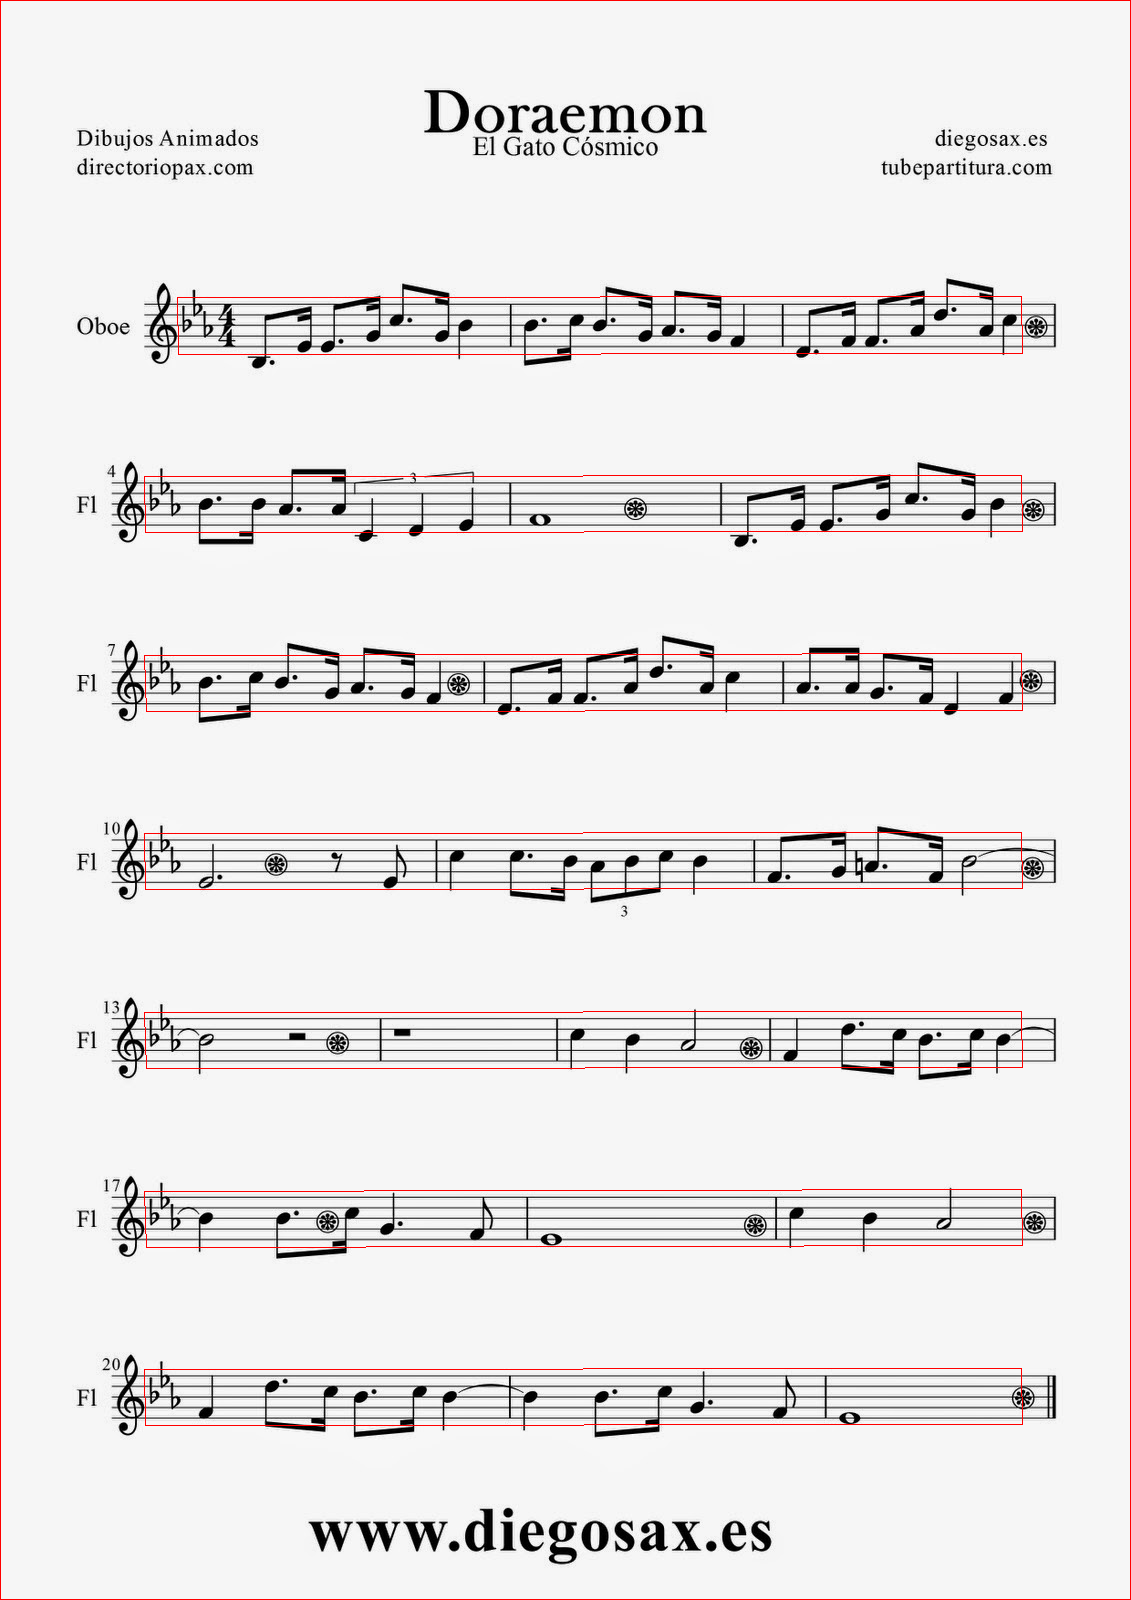
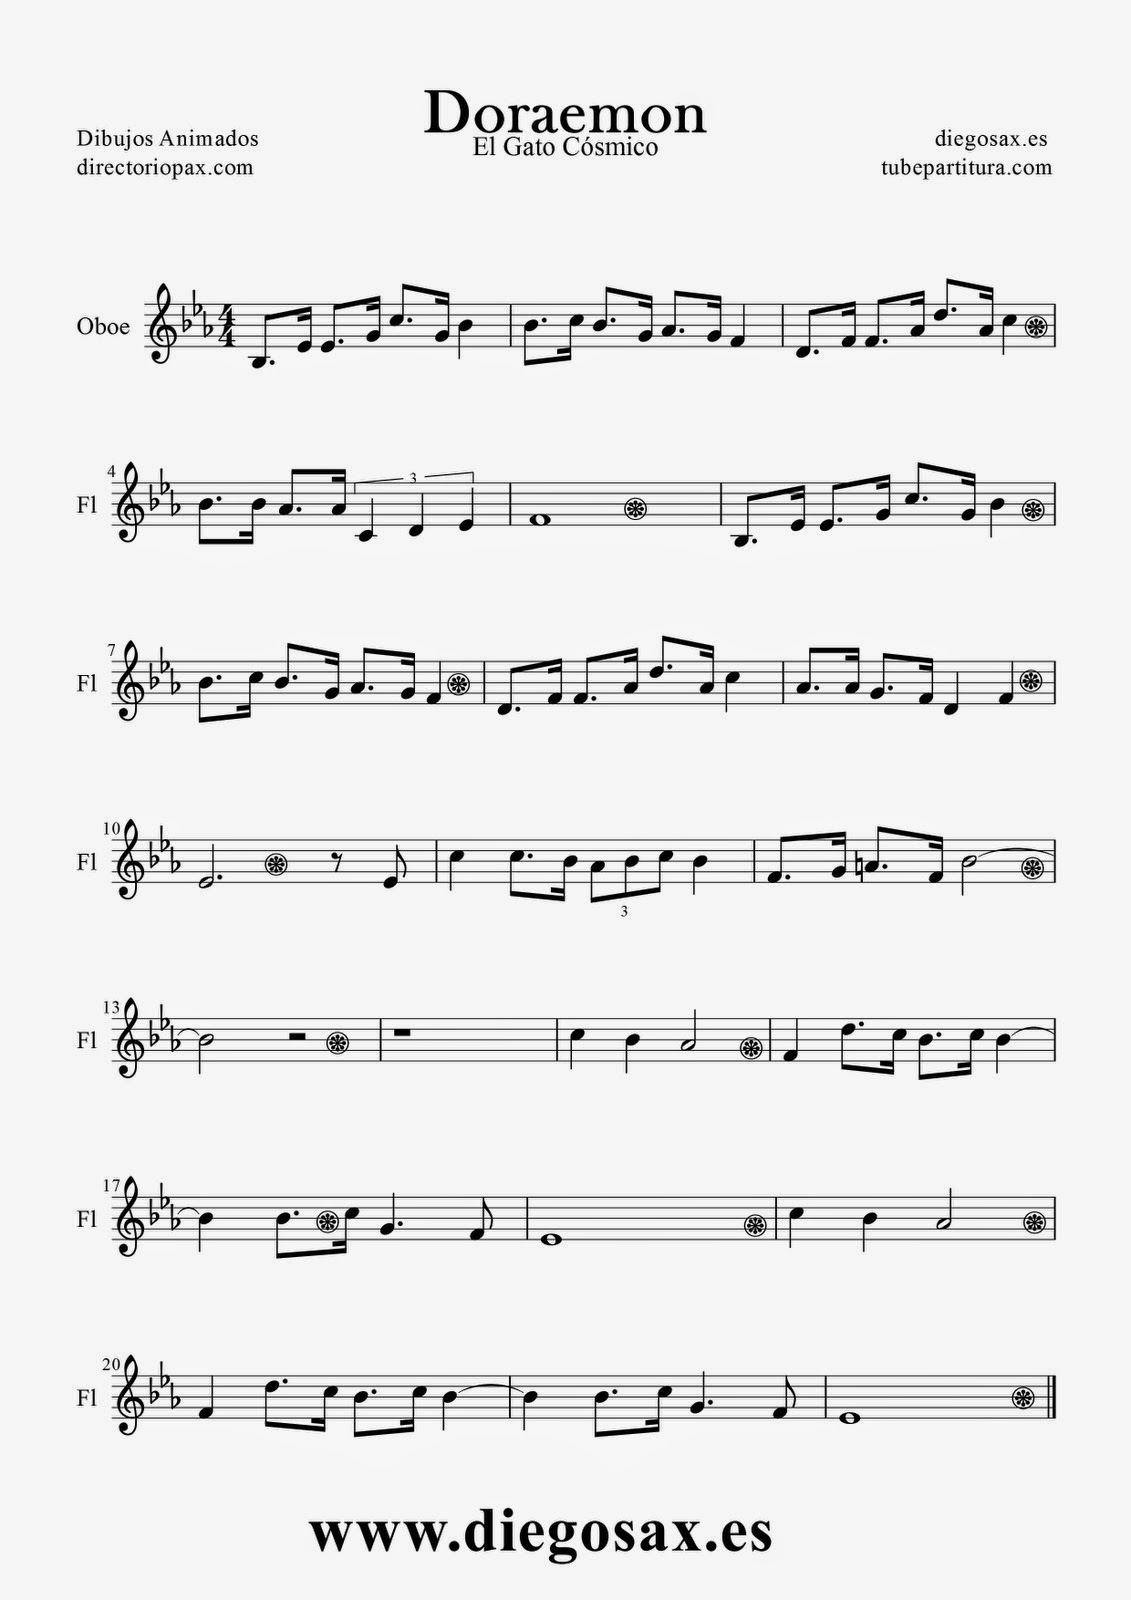
iterate through each row in order to find notes

Changed region(s): [[0.9903, 0.9688, 1.0, 1.0], [0.9903, 0.0, 1.0, 0.0312]]

diff --git a/app/camera.js b/app/camera.js
@@ -9,6 +9,7 @@ const nErodIters = 2;
 
 const minArea = 2000;
 const maxArea = 10000000000;
+const SQUARE_APPROX = 0.005;
 
 //colors (B, G, R)!!!
 const BLUE = [0, 255, 0];
@@ -23,8 +24,96 @@ const verticalKernelReduction = 195;
 const staffKernelWidth = 7;
 const barKernelHeight = 5;
 
+//create kernel with height of 1 and width of a given kernelSize
+let staffKernel = cv.imgproc.getStructuringElement(1, [1, staffKernelWidth]);
+
+//vertical kernel for bar morphological transformations
+let barKernel = cv.imgproc.getStructuringElement(1, [barKernelHeight, 1]);
+
+//base kernel, used in staff (five lines) finding
+let baseKernel = cv.imgproc.getStructuringElement(2, [1, staffKernelWidth]);
+
+let notesKernel = cv.imgproc.getStructuringElement(1, [7, 7]);
+
 //const camera = new cv.VideoCapture(0);
 const window = new cv.NamedWindow('Video', 0)
+
+//iterator is used to iterate through all parts of the sheet
+//the program runs for each row and finds notes in order to play them 
+let iterator = 0;
+function findAndDrawNotes(image) {
+  //we need single channel image to apply threshhold
+  image.cvtColor('CV_BGR2GRAY');
+
+  //get the threshholded image
+  //255 is the max value that pixels are set to if the conditions are satisfied
+  //second argument - 0 - ADAPTIVE_THRESH_MEAN_C
+  //third argument - 0 - THRESH_BINARY
+  //fourth argument is the area around pixel that we're comparing against
+  //the last argument is a value that is subtracted from the mean of every pixel
+  let bw = image.adaptiveThreshold(255, 0, 1, adaptiveBlockSize, adaptiveConstant);
+  //bw.bitwiseNot(bw);
+
+  //clone the image that will be processed as an output
+  let outSheet = bw.clone();
+
+  // !!! currently not used
+  //determine how big the kernel will be according to the width of the image
+  //let kernelSize = outSheet.size()[0] / verticalKernelReduction;
+  //console.log(kernelSize);
+
+  //morphological operations with created kernel
+
+  //first we erode with staff kernel to get rid of horizontal lines
+  outSheet.erode(1, staffKernel);
+  //the following dilatation is applied to make sure that none of the notes disappear
+  outSheet.dilate(2, staffKernel);
+  //next we erode with bar kernel to get rid of vertical lines
+  outSheet.erode(1, barKernel);
+  //dilatation with vertical lines will keep notes from disappearing
+  outSheet.dilate(2, barKernel);
+  //inverse the output so that notes are black and the paper is white
+  outSheet.bitwiseNot(outSheet);
+
+  //clone the outSheet matrix
+  //~~ outNotes matrix will contain the information used for contour finding (and ellipse drawing)
+  outNotes = outSheet.clone();
+
+  //first dilatate to make ellipses a little bigger
+  outNotes.dilate(1, notesKernel);
+  //the erode to smooth them
+  outNotes.erode(1, notesKernel);
+  outNotes.canny(0, 100);
+
+  let notesContours = outNotes.findContours();
+  const lineType = 8;
+  const maxLevel = 2;
+  const thickness = 2;
+  let big = new cv.Matrix(outNotes.size()[0], outNotes.size()[1]);
+  for(i = 0; i < notesContours.size(); i++) {
+    if(notesContours.area(i) > 235 && notesContours.area(i) < 300) {
+      //WE NEED TO FIND VALUES INSTEAD OF 235 AND 300!!!!!!!!
+      let moments = notesContours.moments(i);
+      let centerX = Math.round(moments.m10 / moments.m00);
+      let centerY = Math.round(moments.m01 / moments.m00);
+      console.log('Center of the note: [' + centerX + '][' + centerY + '].');
+      big.drawContour(notesContours, i, RED, thickness, lineType, maxLevel, [0, 0]);
+      big.line([centerX - 2, centerY], [centerX + 2, centerY], WHITE);
+      big.line([centerX, centerY - 2], [centerX, centerY + 2], WHITE);
+    }
+  }
+
+  //console.log(outSheet.col(1));
+  big.save('./con['+iterator+'].png');
+  // console.log('Saved contours to output/contours.png');
+  outSheet.save('./sheet['+iterator+'].png');
+  // console.log('Saved notes without the staff to output/outSheet.png')
+  //frame.save('./output/frame.png');
+  //console.log('Saved staff frames to output/frame.png')
+  iterator += 1;
+}
+
+let frames = [];
 
 //setInterval( () => {
   cv.readImage('img/doramon.jpg', (err, frame) => {
@@ -35,20 +124,12 @@ const window = new cv.NamedWindow('Video', 0)
     if (frame.width() < 1 || frame.height() < 1) {
       throw new Error('Image has no size');
     }
-
+      let originalWidth = frame.width();
+      let originalHeight = frame.height();
       //outedges is the sheet without the notes (only the staff)
       let outEdges = frame.clone();
 
       outEdges.convertGrayscale();
-
-      //create kernel with height of 1 and width of a given kernelSize
-      let staffKernel = cv.imgproc.getStructuringElement(1, [1, staffKernelWidth]);
-
-      //vertical kernel for bar morphological transformations
-      let barKernel = cv.imgproc.getStructuringElement(1, [barKernelHeight, 1]);
-
-      //base kernel, used in staff (five lines) finding
-      let baseKernel = cv.imgproc.getStructuringElement(2, [1, staffKernelWidth]);
 
       //morphological operations with created kernel
       outEdges.dilate(17, barKernel);
@@ -68,7 +149,8 @@ const window = new cv.NamedWindow('Video', 0)
         if (area < minArea || area > maxArea) continue;
 
         let arcLength = contours.arcLength(i, true);
-        contours.approxPolyDP(i, 0.01 * arcLength, true);
+        // contours.approxPolyDP(i, 0.01 * arcLength, true);
+        contours.approxPolyDP(i, contours.arcLength(i, true) * SQUARE_APPROX, true);
 
         //we have to filter those polygons that aren't rectangles
         if (contours.cornerCount(i) != 4) continue;
@@ -80,103 +162,34 @@ const window = new cv.NamedWindow('Video', 0)
           contours.point(i, 3)
         ]
 
-        frame.line([points[0].x,points[0].y], [points[1].x, points[1].y], RED);
-        frame.line([points[1].x,points[1].y], [points[2].x, points[2].y], RED);
-        frame.line([points[2].x,points[2].y], [points[3].x, points[3].y], RED);
-        frame.line([points[3].x,points[3].y], [points[0].x, points[0].y], RED);
-        //frame.cv.circle();
+        // frame.line([points[0].x,points[0].y], [points[1].x, points[1].y], RED);
+        // frame.line([points[1].x,points[1].y], [points[2].x, points[2].y], RED);
+        // frame.line([points[2].x,points[2].y], [points[3].x, points[3].y], RED);
+        // frame.line([points[3].x,points[3].y], [points[0].x, points[0].y], RED);
+        // //frame.cv.circle();
         // console.log('{' + i + '} - points[0].x : '+ points[0].x + '. ');// ,points[0].y], [points[1].x, points[1].y]);
         // console.log('{' + i + '} - points[1].x : '+ points[1].x + '. ');// ,points[1].y], [points[2].x, points[2].y]);
         // console.log('{' + i + '} - points[2].x : '+ points[2].x + '. ');// ,points[2].y], [points[3].x, points[3].y]);
         // console.log('{' + i + '} - points[3].x : '+ points[3].x + '. ');// ,points[3].y], [points[0].x, points[0].y]);
 
-          // window.show(frame);
-      }
-      frame.save('./output/frame.png');
-      console.log('Saved frame without the staff to output/frame.png')
 
-      //we need single channel image to apply threshhold
-      frame.cvtColor('CV_BGR2GRAY');
+        const staffHeight = points[2].y - points[0].y;
+        const staffWidth = points[2].x - points[0].x;
+        const widthRatio = staffWidth / originalWidth;
+        //offset that is addesd to the staff height to make sure that notes are not cut off
+        const heightOffset = staffHeight/5;
+        //the difference between two lines on the sheet
+        const lineDifference = staffHeight*5/6;
 
-      //get the threshholded image
-      //255 is the max value that pixels are set to if the conditions are satisfied
-      //second argument - 0 - ADAPTIVE_THRESH_MEAN_C
-      //third argument - 0 - THRESH_BINARY
-      //fourth argument is the area around pixel that we're comparing against
-      //the last argument is a value that is subtracted from the mean of every pixel
-      let bw = frame.adaptiveThreshold(255, 0, 1, adaptiveBlockSize, adaptiveConstant);
-      //bw.bitwiseNot(bw);
-
-      //clone the image that will be processed as an output
-      let outSheet = bw.clone();
-
-      // !!! currently not used
-      //determine how big the kernel will be according to the width of the image
-      //let kernelSize = outSheet.size()[0] / verticalKernelReduction;
-      //console.log(kernelSize);
-
-
-
-      //morphological operations with created kernel
-      outSheet.erode(1, staffKernel);
-      outSheet.dilate(1, staffKernel);
-      //outSheet.erode(1, staffKernel);
-      //outSheet.dilate(1, staffKernel);
-
-      /*let barKernel = cv.imgproc.getStructuringElement(1, [barKernelHeight, 1]);
-
-      //console.log(barKernel.col(1));
-
-
-      outSheet.erode(1, barKernel);
-      outSheet.dilate(1, barKernel);
-      outSheet.erode(1, barKernel);
-      outSheet.dilate(1, barKernel);
-      */
-
-      //inverse the output so that notes are black and the paper is white
-      outSheet.bitwiseNot(outSheet);
-
-    /*  cv::ellipse(self->mat, cv::Point(x, y), cv::Size(width, height), angle,
-      startAngle, endAngle, color, thickness, lineType, shift);
-      cv::line(self->mat, cv::Point(x1, y1), cv::Point(x2, y2), color, thickness); */
-
-
-      //get the notes ellipses
-      outNotes = outSheet.clone();
-      let notesKernel = cv.imgproc.getStructuringElement(1, [7, 7]);
-      //console.log(notesKernel);
-
-      outNotes.canny(0, 100);
-      outNotes.dilate(1, notesKernel);
-      outNotes.erode(1, notesKernel);
-      //window.show(outNotes);
-
-      var notesContours = outNotes.findContours();
-      const lineType = 8;
-      const maxLevel = 2;
-      const thickness = 2;
-      let big = new cv.Matrix(outNotes.size()[0], outNotes.size()[1]);
-      for(i = 0; i < notesContours.size(); i++) {
-        if(notesContours.area(i) > 235 && notesContours.area(i) < 300) {
-          //WE NEED TO FIND VALUES INSTEAD OF 235 AND 300!!!!!!!!
-
-          let moments = notesContours.moments(i);
-          let centerX = Math.round(moments.m10 / moments.m00);
-          let centerY = Math.round(moments.m01 / moments.m00);
-          console.log('Center of the note: [' + centerX + '][' + centerY + '].');
-          big.drawContour(notesContours, i, RED, thickness, lineType, maxLevel, [0, 0]);
-          big.line([centerX - 2, centerY], [centerX + 2, centerY], WHITE);
-          big.line([centerX, centerY - 2], [centerX, centerY + 2], WHITE);
-        }
+        let sourceImage = [0, 0, 0, staffHeight+2*heightOffset, staffWidth, staffHeight+2*heightOffset, staffWidth, 0];
+        let destinationImage = [points[0].x, points[0].y-heightOffset, points[3].x, points[3].y+heightOffset, points[2].x, points[2].y+heightOffset, points[1].x, points[1].y-heightOffset];
+        let xfrmMat = frame.getPerspectiveTransform(destinationImage,sourceImage);
+        let tmpFrame = frame.copy();
+        tmpFrame.warpPerspective(xfrmMat, staffWidth, staffHeight+2*heightOffset, [255, 255, 255]);
+        tmpFrame.save(i + '.png');
+        frames.push(tmpFrame);
       }
 
-      //console.log(outSheet.col(1));
-      big.save('./output/contours.png');
-      console.log('Saved contours to output/contours.png');
-      outSheet.save('./output/outSheet.png');
-      console.log('Saved notes without the staff to output/outSheet.png')
-      //frame.save('./output/frame.png');
-      //console.log('Saved staff frames to output/frame.png')
+      frames.forEach(findAndDrawNotes);
   });
   //}, frameRate);

diff --git a/app/findPage.js b/app/findPage.js
@@ -16,14 +16,12 @@ function find_page (im_orginal) {
     im.medianBlur(BLUR);
 
     // find squares in every color plane of the image (B,G,R) TODO
-
     im_transformed = im.copy();
     im_transformed.convertGrayscale();
     im_transformed.canny(LOW_THRESH, HIGH_THRESH);
     im_transformed.dilate(DILATE_ITERATION_NUM);
 
     contours = im_transformed.findContours();
-
 
     //find biggest countour
     let largestContourImg;
@@ -37,22 +35,18 @@ function find_page (im_orginal) {
       }
     }
 
-
     im_contour = im_orginal.copy();
     im_contour.drawAllContours(contours, RED,5);
     im_contour.save('output/all.png');
 
-
     //find approximated polygon
     contours.approxPolyDP(largestAreaIndex, contours.arcLength(largestAreaIndex, true) * SQUARE_APPROX, true);
-
 
     im_contour = im_orginal.copy();
     im_contour.drawContour(contours, largestAreaIndex, RED,5);
     im_contour.save('output/polygon.png');
 
 
-    //
     var width = im_orginal.width();
     var height = im_orginal.height();
     points_sq = contours.points(largestAreaIndex);
